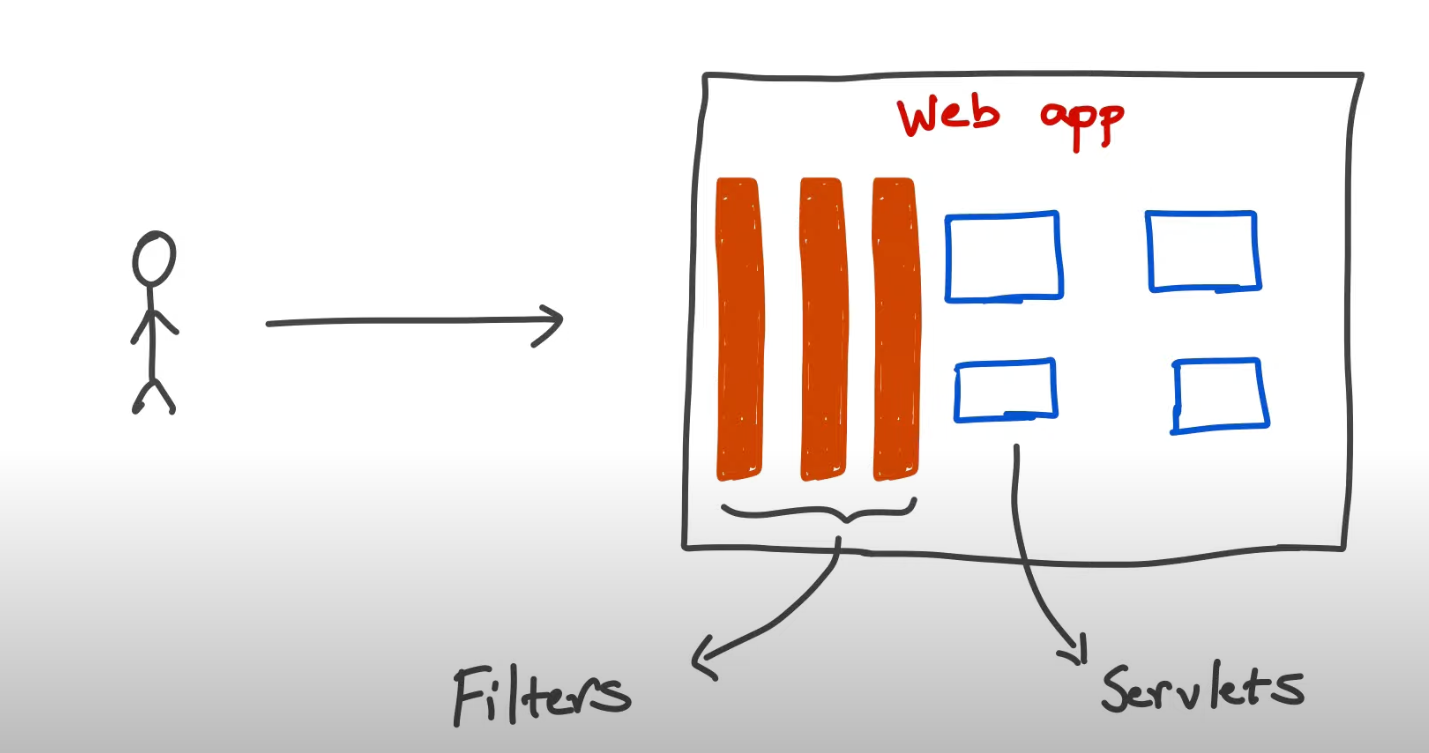
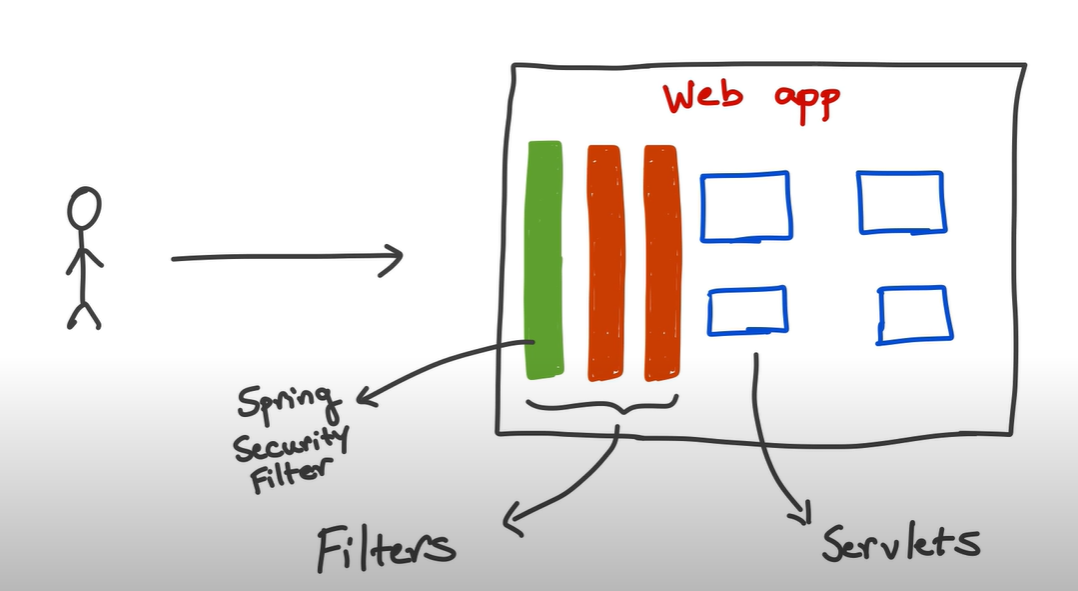
Add authentication flow and notes

diff --git a/src/main/java/saurabh/s/sahu/course/api/configuration/SecurityConfiguration.java b/src/main/java/saurabh/s/sahu/course/api/configuration/SecurityConfiguration.java
@@ -38,7 +38,7 @@ public class SecurityConfiguration  {
     public SecurityFilterChain securityFilterChain(HttpSecurity http) throws Exception {
         http.authorizeHttpRequests(auth -> auth
                         .requestMatchers("/admin").hasRole("ADMIN")
-                        .requestMatchers("/user").hasAnyRole("ADMIN", "USER")
+                        .requestMatchers("/user").hasAnyRole("ADMIN")
                         .requestMatchers("/").permitAll()
                 )
                 .formLogin(form -> form

diff --git a/src/main/resources/notes/notes.md b/src/main/resources/notes/notes.md
@@ -84,19 +84,41 @@ We are talking about Application level security.
      provide authorities
    - Roles are coarse-grained.
 
-[Difference between Roles & Granted Authority](https://www.geeksforgeeks.org/difference-between-role-and-grantedauthority-in-spring-security/)
+- [Difference between Roles & Granted Authority](https://www.geeksforgeeks.org/difference-between-role-and-grantedauthority-in-spring-security/)
 
-Servlets and Filters: Servlets are mapped to specific URLS while filters are mapped to all URLS
+- Servlets and Filters: Servlets are mapped to specific URLs while filters could be mapped to all URLs
 ![Servlets and filters](../images/servlets-and-filters.png)
 
-Spring Security default behaviour:
-1. Adds mandatory authentication for URLs.
-2. Adds login form.
-3. Handles login error.
-4. Creates a user and sets a default password.
+- Spring Security default behaviour:
+  1. Adds mandatory authentication for URLs.
+  2. Adds login form.
+  3. Handles login error.
+  4. Creates a user and sets a default password.
 
-AuthenticationManager - manages authentication in a SpringBoot Security app. It has a method called `authenticate()`.
-@EnableWebSecurity - tells spring security that it is web security configuration.
+- AuthenticationManager - manages authentication in a SpringBoot Security app. It has a method called `authenticate()`.
+- @EnableWebSecurity - tells spring security that it is web security configuration.
 
-HttpSecurity - helps configure what are the paths and what are the access restrictions for those paths
+- HttpSecurity - helps configure what are the paths and what are the access restrictions for those paths
 ![WebSecurityConfigurerAdapter](../images/WebSecurityConfigurerAdapter.png) - for configuring authentication and authorisation.
+
+- ### **How Spring Security Authentication works**
+
+  ![Complete authentication flow](../images/authentication-flow.png) 
+- Here we are looking Provider pattern
+
+  - [Authentication](https://docs.spring.io/spring-security/site/docs/4.0.x/apidocs/org/springframework/security/core/Authentication.html) in Spring Security is an interface and its object act as a data transfer object. It takes the  
+    credentials as input before authentication and returns the Principal (user data) as output.
+  - [AuthenticationManager](https://docs.spring.io/spring-security/site/docs/current/api/org/springframework/security/authentication/AuthenticationManager.html) delegates the authentication to the AuthenticationProvider.
+    - It calls the `supports` method provided by the AuthenticationProvider to check if the provider supports the authentication or not.
+    - It returns an Authentication object after successful authentication or throws an authentication exception if the authentication fails.
+  - [AuthenticationProvider](https://docs.spring.io/spring-security/site/docs/4.2.x/apidocs/org/springframework/security/authentication/AuthenticationProvider.html) is an interface which has a method called `authenticate()` responsible for authentication.
+    - This AuthenticationProvider takes Authentication object as input with credentials as parameters and after 
+      successful authentication returns Authentication object with authenticated user data known as Principal.
+    - Each application can have multiple AuthenticationProvider, each one knowing how to authenticate (OAuth, SSO, LDAP)
+    - They also have a method called `support()` which tells if the provider supports the authentication or not. (boolean)
+  - UserDetailsService returns object of type [UserDetails](https://docs.spring.io/spring-security/site/docs/current/api/org/springframework/security/core/userdetails/UserDetails.html) which contains all the information about the user.
+    - This UserDetails objects may be passed on as Principal once the user is authenticated.
+  - Once successful authentication, the filter saves the Authentication object with the Principal details in the 
+    SecurityContext which is associated with the current thread which is used to identify the current user.
+  - There is another filter which is responsible for associating the authenticated principal with the user's session 
+    so that we don't have to authenticate again and again in subsequent requests.
